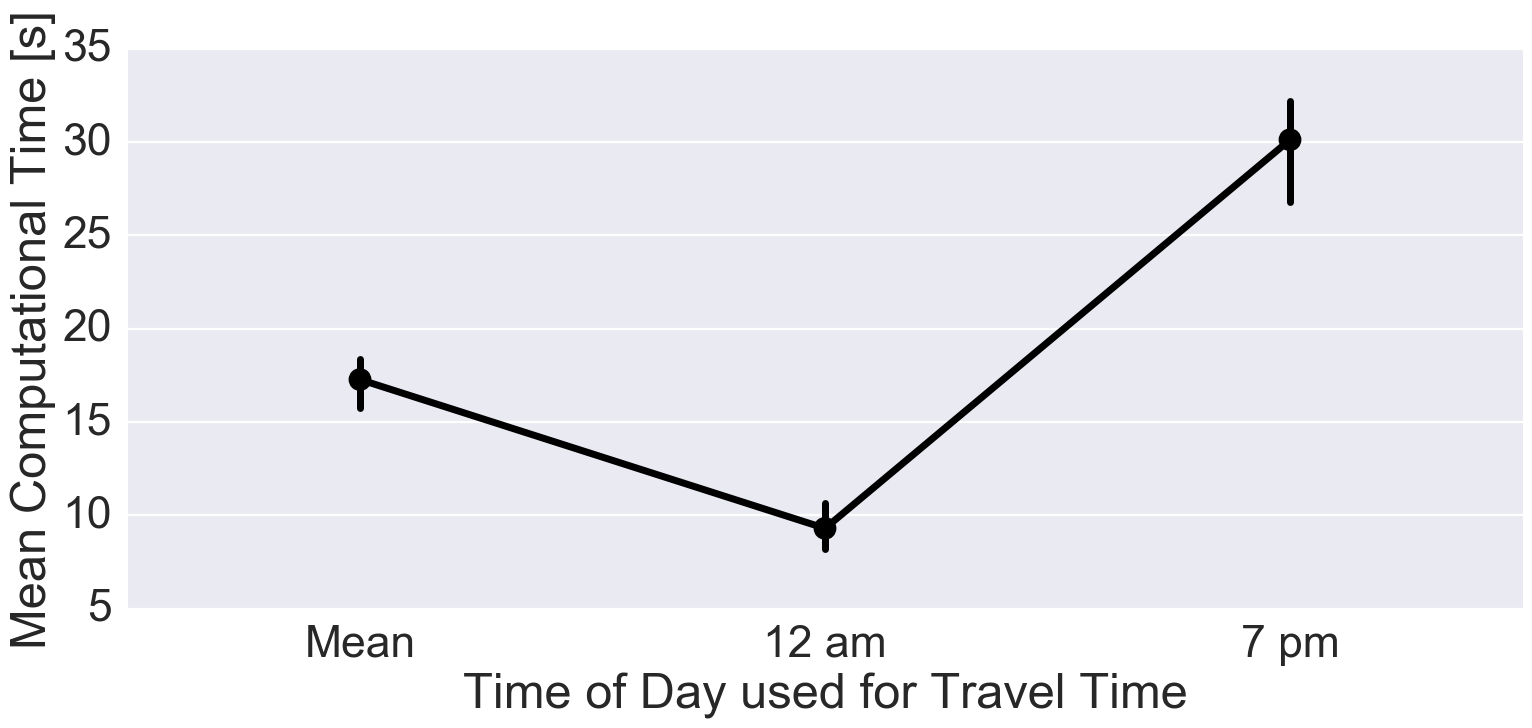
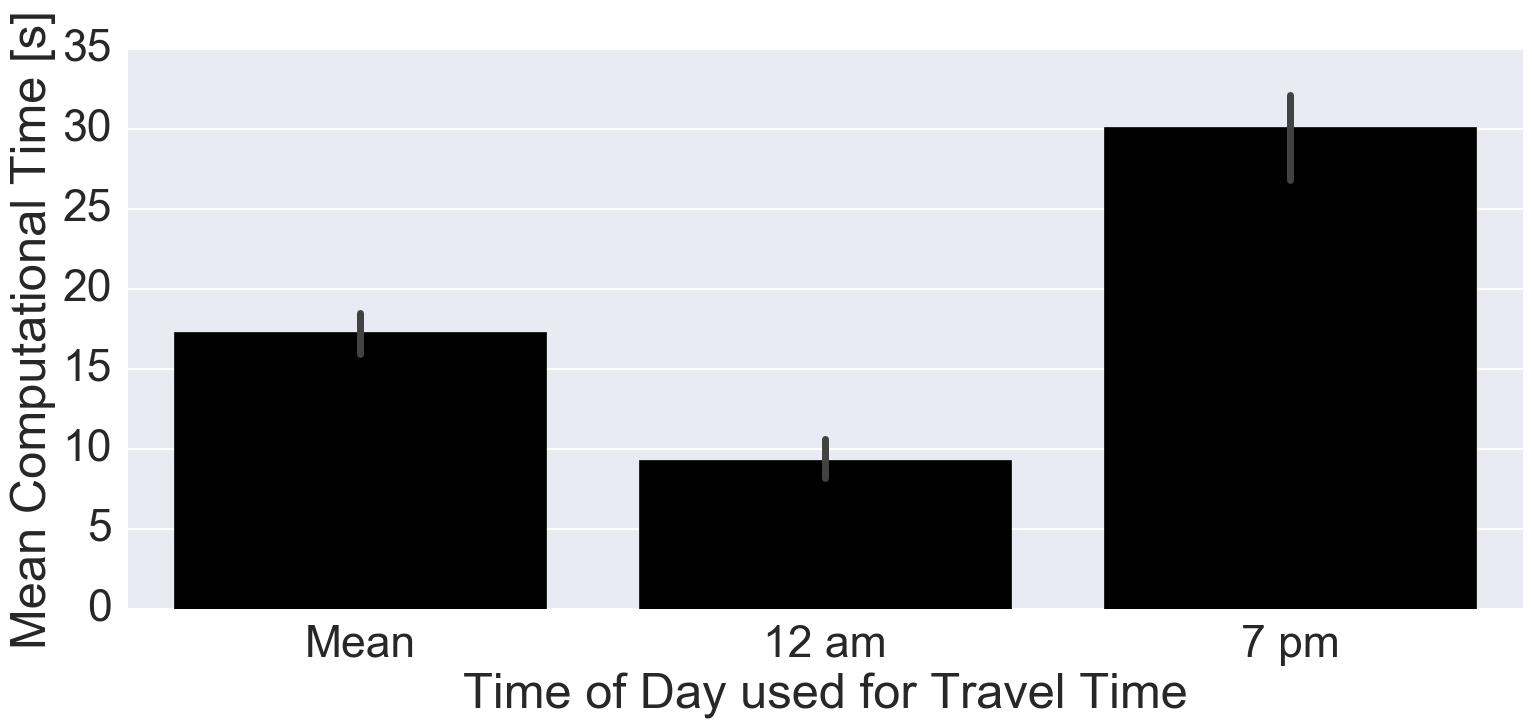
Add bar plots

diff --git a/scripts/plot_metrics.py b/scripts/plot_metrics.py
@@ -558,7 +558,7 @@ def make_hour_df():
 def make_hour_plots(df):
     for field in tqdm(fields + ["n_shared_per_passenger"]):
         fig, ax = plt.subplots(1, 1, figsize=(18, 7))
-        ax = sns.pointplot(x="hour", y=field, data=df,
+        ax = sns.barplot(x="hour", y=field, data=df,
                            color=sns.xkcd_rgb["black"], ax=ax)
         filename = "figs/hour-{}.png".format(field)
         ax.set_xlabel("Time of Day used for Travel Time")
@@ -576,7 +576,7 @@ def make_hour_plots(df):
 
 def make_hour_comp_plots(df):
     fig, ax = plt.subplots(1, 1, figsize=(18, 7))
-    sns.pointplot(x="hour", y="comp_time", data=df, ax=ax,
+    sns.barplot(x="hour", y="comp_time", data=df, ax=ax,
                   color=sns.xkcd_rgb["black"])
     ax.set_xlabel("Time of Day used for Travel Time")
     ax.set_ylabel(prettify("comp_time"))
